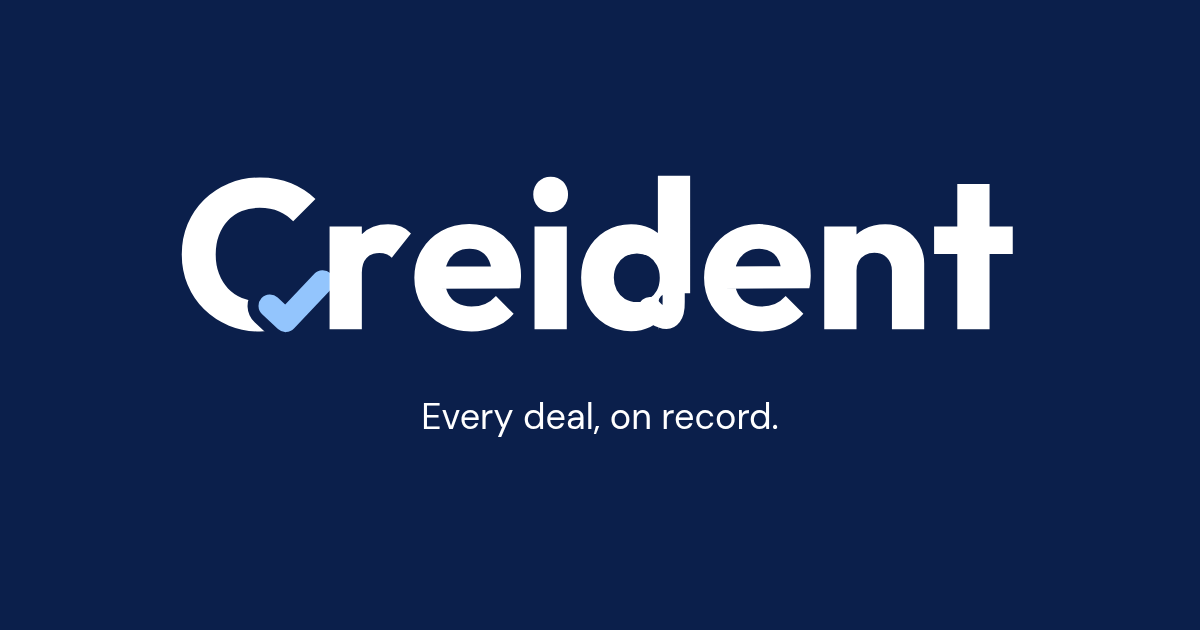
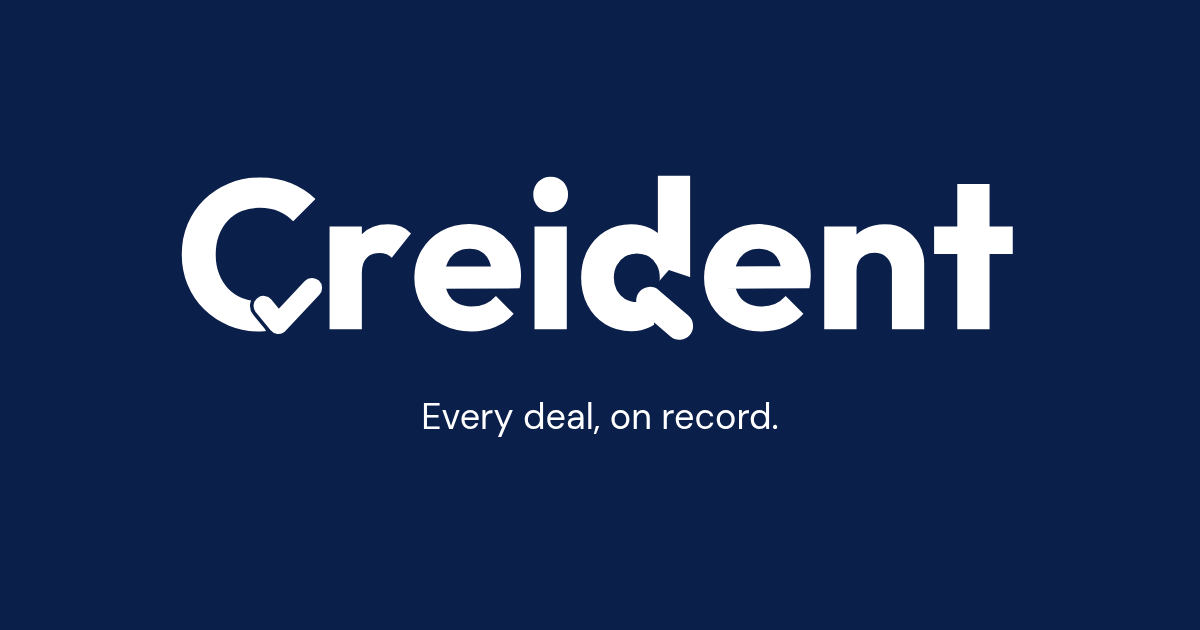
Rebuild compact Check-C and outward d tail from approved direction

Changed region(s): [[0.185, 0.4222, 0.2775, 0.5429], [0.5242, 0.4222, 0.5858, 0.5429]]

diff --git a/docs/brand/index.html b/docs/brand/index.html
@@ -1,1 +1,1 @@
-<!doctype html><html lang="en"><meta charset="utf-8"><meta name="viewport" content="width=device-width,initial-scale=1"><title>Creident · Brand kit v2</title><style>@font-face{font-family:Outfit;src:url('../../src/fonts/outfit-latin-wght-normal.woff2')}@font-face{font-family:Jakarta;src:url('../../src/fonts/plus-jakarta-sans-latin-wght-normal.woff2')}@font-face{font-family:DM;src:url('../../src/fonts/dm-sans-latin-wght-normal.woff2')}*{box-sizing:border-box}body{margin:0;padding:32px;background:#f2f6fc;color:#0B1F4B;font:16px/1.5 DM,Arial,sans-serif}h1,h2,h3{font-family:Jakarta,Arial,sans-serif}h1{font-size:32px}main{display:grid;grid-template-columns:repeat(3,minmax(0,1fr));gap:18px}article,section{background:white;border-radius:24px;padding:20px;overflow:hidden}h3{font-size:14px;margin:0 0 12px}.sample{height:120px;display:flex;align-items:center;justify-content:center;padding:20px}.sample img{max-width:100%;max-height:80px;object-fit:contain}.light{background:white}.dark{background:#0B1F4B}section{margin:22px 0}.swatches{display:flex;gap:18px}.swatches>div{flex:1}.swatches i{display:block;height:70px;border-radius:14px;border:1px solid #DBEAFE}.fonts{display:flex;gap:70px;font-size:28px}.clear{display:inline-block;padding:34px;border:1px dashed #3B82F6}.clear img{width:330px}footer{margin-top:24px}small{font-size:13px}</style><h1>Creident · Brand kit v2</h1><p>Every deal, on record. · Outfit 700 · Custom Check-C and curled d · Not yet wired into the app</p><section><h2>Palette</h2><div class="swatches"><div><i style="background:#0B1F4B"></i>Navy #0B1F4B</div><div><i style="background:#3B82F6"></i>Sapphire #3B82F6</div><div><i style="background:#93C5FD"></i>Sky #93C5FD</div><div><i style="background:#DBEAFE"></i>Ice #DBEAFE</div><div><i style="background:#FFFFFF"></i>White #FFFFFF</div></div></section><section><h2>Typography</h2><div class="fonts"><span style="font-family:Outfit;font-weight:700">Aa · Outfit</span><span style="font-family:Jakarta">Aa · Plus Jakarta Sans</span><span style="font-family:DM">Aa · DM Sans</span></div><p>Every deal, on record.</p></section><section><h2>Clear space and minimum sizes</h2><div class="clear"><img src="../../public/brand/v2/wordmark-light.svg" alt="Creident clear space"></div><p>Dashed area illustrates one check height of clear space (about 20 units per 48-unit wordmark canvas).</p><img height="18" src="../../public/brand/v2/wordmark-light.svg" alt="Minimum wordmark 18px"><p>Wordmark: 18px canvas height minimum</p><img width="16" height="16" src="../../public/brand/v2/mark.svg" alt="Minimum mark 16px"><p>Mark: 16px minimum</p></section><main><article><h3>wordmark-light.svg</h3><div class="sample light"><img src="../../public/brand/v2/wordmark-light.svg" alt="wordmark-light.svg" loading="eager"></div><div class="sample dark"><img src="../../public/brand/v2/wordmark-light.svg" alt="wordmark-light.svg" loading="eager"></div></article><article><h3>wordmark-dark.svg</h3><div class="sample light"><img src="../../public/brand/v2/wordmark-dark.svg" alt="wordmark-dark.svg" loading="eager"></div><div class="sample dark"><img src="../../public/brand/v2/wordmark-dark.svg" alt="wordmark-dark.svg" loading="eager"></div></article><article><h3>wordmark-mono-navy.svg</h3><div class="sample light"><img src="../../public/brand/v2/wordmark-mono-navy.svg" alt="wordmark-mono-navy.svg" loading="eager"></div><div class="sample dark"><img src="../../public/brand/v2/wordmark-mono-navy.svg" alt="wordmark-mono-navy.svg" loading="eager"></div></article><article><h3>wordmark-mono-white.svg</h3><div class="sample light"><img src="../../public/brand/v2/wordmark-mono-white.svg" alt="wordmark-mono-white.svg" loading="eager"></div><div class="sample dark"><img src="../../public/brand/v2/wordmark-mono-white.svg" alt="wordmark-mono-white.svg" loading="eager"></div></article><article><h3>mark.svg</h3><div class="sample light"><img src="../../public/brand/v2/mark.svg" alt="mark.svg" loading="eager"></div><div class="sample dark"><img src="../../public/brand/v2/mark.svg" alt="mark.svg" loading="eager"></div></article><article><h3>mark-dark.svg</h3><div class="sample light"><img src="../../public/brand/v2/mark-dark.svg" alt="mark-dark.svg" loading="eager"></div><div class="sample dark"><img src="../../public/brand/v2/mark-dark.svg" alt="mark-dark.svg" loading="eager"></div></article><article><h3>app-icon-navy.svg</h3><div class="sample light"><img src="../../public/brand/v2/app-icon-navy.svg" alt="app-icon-navy.svg" loading="eager"></div><div class="sample dark"><img src="../../public/brand/v2/app-icon-navy.svg" alt="app-icon-navy.svg" loading="eager"></div></article><article><h3>app-icon-white.svg</h3><div class="sample light"><img src="../../public/brand/v2/app-icon-white.svg" alt="app-icon-white.svg" loading="eager"></div><div class="sample dark"><img src="../../public/brand/v2/app-icon-white.svg" alt="app-icon-white.svg" loading="eager"></div></article><article><h3>app-icon-sapphire.svg</h3><div class="sample light"><img src="../../public/brand/v2/app-icon-sapphire.svg" alt="app-icon-sapphire.svg" loading="eager"></div><div class="sample dark"><img src="../../public/brand/v2/app-icon-sapphire.svg" alt="app-icon-sapphire.svg" loading="eager"></div></article><article><h3>favicon.svg</h3><div class="sample light"><img src="../../public/brand/v2/favicon.svg" alt="favicon.svg" loading="eager"></div><div class="sample dark"><img src="../../public/brand/v2/favicon.svg" alt="favicon.svg" loading="eager"></div></article><article><h3>favicon-32.png</h3><div class="sample light"><img src="../../public/brand/v2/favicon-32.png" alt="favicon-32.png" loading="eager"></div><div class="sample dark"><img src="../../public/brand/v2/favicon-32.png" alt="favicon-32.png" loading="eager"></div></article><article><h3>favicon-16.png</h3><div class="sample light"><img src="../../public/brand/v2/favicon-16.png" alt="favicon-16.png" loading="eager"></div><div class="sample dark"><img src="../../public/brand/v2/favicon-16.png" alt="favicon-16.png" loading="eager"></div></article><article><h3>apple-touch-icon-180.png</h3><div class="sample light"><img src="../../public/brand/v2/apple-touch-icon-180.png" alt="apple-touch-icon-180.png" loading="eager"></div><div class="sample dark"><img src="../../public/brand/v2/apple-touch-icon-180.png" alt="apple-touch-icon-180.png" loading="eager"></div></article><article><h3>icon-192.png</h3><div class="sample light"><img src="../../public/brand/v2/icon-192.png" alt="icon-192.png" loading="eager"></div><div class="sample dark"><img src="../../public/brand/v2/icon-192.png" alt="icon-192.png" loading="eager"></div></article><article><h3>icon-512.png</h3><div class="sample light"><img src="../../public/brand/v2/icon-512.png" alt="icon-512.png" loading="eager"></div><div class="sample dark"><img src="../../public/brand/v2/icon-512.png" alt="icon-512.png" loading="eager"></div></article><article><h3>maskable-512.png</h3><div class="sample light"><img src="../../public/brand/v2/maskable-512.png" alt="maskable-512.png" loading="eager"></div><div class="sample dark"><img src="../../public/brand/v2/maskable-512.png" alt="maskable-512.png" loading="eager"></div></article><article><h3>og-image-1200x630.png</h3><div class="sample light"><img src="../../public/brand/v2/og-image-1200x630.png" alt="og-image-1200x630.png" loading="eager"></div><div class="sample dark"><img src="../../public/brand/v2/og-image-1200x630.png" alt="og-image-1200x630.png" loading="eager"></div></article></main><footer>Opposite-background samples deliberately expose unsuitable combinations. Use the matching light/dark asset; see BRAND.md.</footer></html>
+<!doctype html><html lang="en"><meta charset="utf-8"><title>Creident brand board</title><style>@font-face{font-family:Outfit;src:url('../../src/fonts/outfit-latin-wght-normal.woff2')}@font-face{font-family:Jakarta;src:url('../../src/fonts/plus-jakarta-sans-latin-wght-normal.woff2')}@font-face{font-family:DM;src:url('../../src/fonts/dm-sans-latin-wght-normal.woff2')}*{box-sizing:border-box}body{margin:0;width:1280px;height:720px;background:#eef6ff;color:#0B1F4B;font-family:DM,Arial,sans-serif}.card{position:absolute;background:white;border-radius:24px;display:flex;align-items:center;justify-content:center}.wl{left:26px;top:24px;width:604px;height:282px}.wd{left:648px;top:24px;width:606px;height:282px;background:#0B1F4B}.word{width:500px}.icons{left:26px;top:322px;width:604px;height:162px;gap:38px}.icons img{width:119px;height:119px}.icons img:last-child{width:55px;height:55px}.palette{left:26px;top:500px;width:604px;height:196px;gap:34px}.color{text-align:center;font-size:18px}.swatch{width:99px;height:83px;border-radius:12px;margin-bottom:12px}.type{left:648px;top:322px;width:606px;height:374px;display:block;padding:160px 54px 24px}.samples{display:flex;justify-content:space-between;align-items:center;text-align:center}.samples strong{font-size:60px;font-weight:400;line-height:1}.samples span{display:block;font-size:19px;margin-top:6px}.tag{font-size:26px;margin-top:30px}.outfit{font-family:Outfit}.jakarta{font-family:Jakarta}.dm{font-family:DM}</style><div class="card wl"><img class="word" src="../../public/brand/v2/wordmark-light.svg" alt="Creident"></div><div class="card wd"><img class="word" src="../../public/brand/v2/wordmark-dark.svg" alt="Creident"></div><div class="card icons"><img src="../../public/brand/v2/app-icon-navy.svg" alt="app-icon-navy"><img src="../../public/brand/v2/app-icon-white.svg" alt="app-icon-white"><img src="../../public/brand/v2/app-icon-sapphire.svg" alt="app-icon-sapphire"><img src="../../public/brand/v2/mark.svg" alt="mark"></div><div class="card palette"><div class="color"><div class="swatch" style="background:#0B1F4B"></div>Navy<br>#0B1F4B</div><div class="color"><div class="swatch" style="background:#3B82F6"></div>Sapphire<br>#3B82F6</div><div class="color"><div class="swatch" style="background:#93C5FD"></div>Sky<br>#93C5FD</div><div class="color"><div class="swatch" style="background:#DBEAFE"></div>Ice<br>#DBEAFE</div></div><div class="card type"><div class="samples"><div class="outfit"><strong>Aa</strong><span>Outfit</span></div><div class="jakarta"><strong style="font-size:40px">Plus</strong><span>Jakarta Sans</span></div><div class="dm"><strong>Aa</strong><span>DM Sans</span></div></div><div class="tag">Every deal, on record.</div></div></html>

diff --git a/docs/brand/build-v2.py b/docs/brand/build-v2.py
@@ -10,24 +10,23 @@ f=instantiateVariableFont(TTFont('src/fonts/outfit-latin-wght-normal.woff2'),{'w
 g=f.getGlyphSet();c=f.getBestCmap()
 def glyph(ch):
  p=SVGPathPen(g);g[c[ord(ch)]].draw(p);return p.getCommands()
-def word(color,check,mark=False,gap=52):
+def word(color,check,mark=False,gap=17):
  # Small marks keep a raster-safe optical gap floor.
- if mark: gap=max(gap,85)
- # Reference letter stroke ~130 font units; check 108 (83%), gap B=52 (40%).
- check_path='M450 110 525 40 700 225'
- defs=f'<defs><mask id="ct"><rect x="-100" y="-100" width="1100" height="1100" fill="white"/><rect x="430" y="-60" width="400" height="230" fill="black"/><path d="{check_path}" fill="none" stroke="black" stroke-width="{108+2*gap}" stroke-linecap="round" stroke-linejoin="round"/></mask><mask id="dt"><rect x="-100" y="-100" width="1000" height="1000" fill="white"/><rect x="390" y="-50" width="240" height="220" rx="45" fill="black"/></mask></defs>'
- art=f'<path d="{glyph("C")}" fill="{color}" mask="url(#ct)"/><path d="{check_path}" fill="none" stroke="{check}" stroke-width="108" stroke-linecap="round" stroke-linejoin="round"/>'
+ if mark: gap=max(gap,24)
+ # BK1c: compact inner check, thin 17-unit separation; custom outward d tail.
+ check_path='M420 110 490 25 650 195'
+ defs=f'<defs><mask id="ct"><rect x="-100" y="-100" width="1100" height="1100" fill="white"/><rect x="430" y="-60" width="400" height="310" fill="black"/><path d="{check_path}" fill="none" stroke="black" stroke-width="{95+2*gap}" stroke-linecap="round" stroke-linejoin="round"/></mask><mask id="dt"><rect x="-100" y="-100" width="1000" height="1000" fill="white"/><path d="M370 -80H650V210L440 280 370 200Z" fill="black"/></mask></defs>'
+ art=f'<path d="{glyph("C")}" fill="{color}" mask="url(#ct)"/><path d="{check_path}" fill="none" stroke="{check}" stroke-width="95" stroke-linecap="round" stroke-linejoin="round"/>'
  x=f['hmtx'][c[67]][0]-10
  if not mark:
   for ch in 'reident':
    shape=f'<path d="{glyph(ch)}" fill="{color}"'+(' mask="url(#dt)"' if ch=='d' else '')+'/>'
-   if ch=='d':shape+=f'<path d="M463 220V130Q465 38 408 58Q380 65 350 100" fill="none" stroke="{color}" stroke-width="105" stroke-linecap="round" stroke-linejoin="round"/>'
-   if ch=='d': shape+=f'<circle cx="450" cy="100" r="26" fill="{color}"/>'
+   if ch=='d':shape+=f'<path d="M350 135 490 15" fill="none" stroke="{color}" stroke-width="130" stroke-linecap="round" stroke-linejoin="round"/>'
    art+=f'<g transform="translate({x} 0)">{shape}</g>';x+=f['hmtx'][c[ord(ch)]][0]-10
  w=48 if mark else (x+55)*.05
  transform='translate(3 41) scale(.055 -.055)' if mark else 'translate(0 40) scale(.05 -.05)'
  return f'<svg xmlns="http://www.w3.org/2000/svg" viewBox="0 0 {w:.2f} 48" role="img" aria-label="Creident"><title>Creident</title>{defs}<g transform="{transform}">{art}</g></svg>'
-for name,color,check,mark in [('wordmark-light','#0B1F4B','#3B82F6',False),('wordmark-dark','#FFFFFF','#93C5FD',False),('wordmark-mono-navy','#0B1F4B','#0B1F4B',False),('wordmark-mono-white','#FFFFFF','#FFFFFF',False),('mark','#0B1F4B','#3B82F6',True),('mark-dark','#FFFFFF','#93C5FD',True)]: (out/f'{name}.svg').write_text(word(color,check,mark))
+for name,color,check,mark in [('wordmark-light','#0B1F4B','#3B82F6',False),('wordmark-dark','#FFFFFF','#FFFFFF',False),('wordmark-mono-navy','#0B1F4B','#0B1F4B',False),('wordmark-mono-white','#FFFFFF','#FFFFFF',False),('mark','#0B1F4B','#3B82F6',True),('mark-dark','#FFFFFF','#93C5FD',True)]: (out/f'{name}.svg').write_text(word(color,check,mark))
 def icon(bg,light=False,sapphire=False,maskable=False):
  mark=word('#FFFFFF' if light else '#0B1F4B','#FFFFFF' if sapphire else '#93C5FD' if light else '#3B82F6',True)
  inner=mark[mark.index('<defs>'):mark.rfind('</svg>')]
@@ -35,9 +34,3 @@ def icon(bg,light=False,sapphire=False,maskable=False):
 for n,b,l,s in [('navy','#0B1F4B',True,False),('white','#FFFFFF',False,False),('sapphire','#3B82F6',True,True)]: (out/f'app-icon-{n}.svg').write_text(icon(b,l,s))
 (out/'favicon.svg').write_text(word('#0B1F4B','#3B82F6',True))
 (out/'maskable-source.svg').write_text(icon('#0B1F4B',True,False,True))
-
-# Diagnostic options use identical artwork, varying only the exclusion gap.
-fix=Path('docs/brand/fix');fix.mkdir(parents=True,exist_ok=True)
-for letter,gap in [('a',39),('b',52),('c',65)]:
- (fix/f'spacing-{letter}.svg').write_text(word('#0B1F4B','#3B82F6',gap=gap))
- (fix/f'spacing-{letter}-dark.svg').write_text(word('#FFFFFF','#93C5FD',gap=gap))

diff --git a/docs/brand/BRAND.md b/docs/brand/BRAND.md
@@ -1,115 +1,141 @@
-# Creident — Check-C brand kit v2
+# Creident — Brand Guidelines
 
-Status: owner-selected direction rebuilt as vector artwork; not yet wired into the
-application. Existing brand files remain unchanged. This guide governs the new
-`public/brand/v2/` kit; the older PDF documents the previous identity.
+**Tagline:** *Every deal, on record.*
 
-## Meaning and construction
+## 1. Meaning
+The mark is a **C** for Creident with a **checkmark** in its opening. Together they stand for an agreed deal, on record: two parties settle terms, and Creident keeps a clear record of what was agreed. The check sits *inside* the C but never touches it, because the record is separate from the parties. Describe the brand only as a way to agree on and record deals. Do not describe it as trustless, tamper-proof, secure escrow, guaranteed, or production-ready.
 
-Creident records the terms, steps and decisions of a buyer–seller deal. The C's
-lower terminal becomes an separated check: agreement goes on record. A soft inward
-hook at the bottom of the d stem meets its bowl, leaving a small rounded notch at
-the lower right. Other letters are standard Outfit. Spelling: **Creident**.
+## 2. Logo versions (`public/brand/v2/`)
+All files are pure vector paths (no live text or embedded images) with tight viewBoxes.
 
-Outfit **700** best matches the attached bold geometric reference. Glyphs are
-outlined from the repository's existing variable WOFF2 using preinstalled system
-Python FontTools/Brotli. Custom C and d details are clean vector geometry, not
-pixel tracing. Rebuild SVGs from repository root:
+| File | Use |
+|---|---|
+| `wordmark-light.svg` | **Primary.** Navy letters with a Sapphire check, for white or Ice backgrounds. |
+| `wordmark-dark.svg` | White letters with a **white** check, for Navy or other dark backgrounds. |
+| `wordmark-mono-navy.svg` | Single colour (Navy), for one-colour print, stamps, embossing and fax/PDF. |
+| `wordmark-mono-white.svg` | Single colour (White), for photos, Sapphire, or any colour where the check colour would clash. |
+| `mark.svg` | Standalone C + check (48×48), for light backgrounds, avatars and in-app small branding. |
+| `mark-dark.svg` | Standalone mark with a white C and Sky check, for dark backgrounds. |
+| `app-icon-navy.svg` | **Default app icon.** Navy tile, white C, Sky check, corner radius 22%. |
+| `app-icon-white.svg` | White tile, Navy C, Sapphire check. Use it on dark home screens or marketing next to the Navy icon. |
+| `app-icon-sapphire.svg` | Sapphire tile with an all-white mark, for promotional and seasonal use. |
+| `favicon.svg` | Transparent Navy C with Sapphire check, tuned for 16–32px. |
 
-```sh
-/usr/bin/python3 docs/brand/build-v2.py
+**Dark wordmark:** white letters and white check, matching the approved board.
+The Navy app tile retains a Sky check as requested; the Sapphire tile uses white.
+
+**Optical tuning:** the wordmark uses a thin 17-unit exclusion gap against an
+approximately 130-unit reference stroke (13%). Mark gap is 24 units to retain
+separation at small sizes. The check is compact and inside the lower-right opening.
+
+### Raster exports (`public/brand/v2/`)
+| File | Notes |
+|---|---|
+| `favicon-16.png`, `favicon-32.png` | Exported from `favicon.svg`. |
+| `apple-touch-icon-180.png` | Navy rounded tile, matching the requested exported app-icon style. |
+| `icon-192.png`, `icon-512.png` | Navy app icon with rounded corners, for the web app manifest (`"purpose": "any"`). |
+| `maskable-512.png` | Full-bleed Navy. The mark sits inside the central 80% safe circle (`"purpose": "maskable"`). |
+| `og-image-1200x630.png` | Navy background, white wordmark, and the tagline in DM Sans. |
+| `wordmark-light@2x.png`, `wordmark-dark@2x.png` | Transparent PNGs, 1562px wide. |
+
+Suggested HTML:
+```html
+<link rel="icon" href="/favicon.svg" type="image/svg+xml">
+<link rel="icon" href="/favicon-32.png" sizes="32x32">
+<link rel="apple-touch-icon" href="/apple-touch-icon-180.png">
+<meta property="og:image" content="/og-image-1200x630.png">
 ```
 
-No package.json change, installation or remote font request. Font license:
-`src/fonts/Outfit-OFL.txt`. PNGs were rasterized from these SVGs using Chromium
-canvas at their named sizes; the OG image uses `docs/brand/og-v2.html`, local DM
-Sans and the outlined dark wordmark. No attached reference image is committed.
+## 3. Clear space
+The minimum clear space on every side is **x = the height of the checkmark**. That is about 0.38× the wordmark height, or about 0.34× the 48-unit mark box. No text, edges or other graphics may enter this zone.
 
-## Versions
+## 4. Minimum sizes
+- **Wordmark:** at least **18px tall** on screen, or 6mm in print. Below that, use the mark.
+- **Mark:** at least **16px**. At 16–32px, use `favicon.svg` or the PNG favicons, which have the widened gap.
 
-| Asset | Use |
-|---|---|
-| wordmark-light.svg | Navy letters, Sapphire check on white/light backgrounds |
-| wordmark-dark.svg | White letters, Sky check on Navy |
-| wordmark-mono-navy.svg | Single Navy ink on light backgrounds |
-| wordmark-mono-white.svg | Single white ink on dark backgrounds |
-| mark.svg / mark-dark.svg | C-check alone, optically positioned in a 48×48 canvas |
-| app-icon-navy/white/sapphire.svg | Centered mark on rounded square, radius 22% |
-| favicon.svg / favicon-16.png / favicon-32.png | Light-background favicon exports, not wired yet |
-| apple-touch-icon-180.png | Apple-touch export |
-| icon-192.png / icon-512.png | Standard application icons |
-| maskable-512.png | Full-bleed Navy square, no transparent corners |
-| og-image-1200x630.png | Navy social card, white wordmark and exact tagline |
+## 5. Colour
+| Name | HEX | RGB | Role |
+|---|---|---|---|
+| Navy | `#0B1F4B` | 11, 31, 75 | Primary: wordmark, text, dark surfaces |
+| Sapphire | `#3B82F6` | 59, 130, 246 | Accent: check on light backgrounds, primary buttons, links |
+| Sky | `#93C5FD` | 147, 197, 253 | Check on dark backgrounds, highlights on Navy |
+| Ice | `#DBEAFE` | 219, 234, 254 | Tinted surfaces, borders, chips |
+| White | `#FFFFFF` | 255, 255, 255 | Backgrounds, reversed logo |
 
-Dark check uses Sky for stronger contrast against Navy (8.88:1 vs Sapphire 4.35:1).
-The Sapphire app icon uses a white monochrome mark to avoid blue-on-blue contrast.
-Maskable artwork stays inside the central 70% square: its farthest mark points fit
-inside the standard center circle of radius 40%, protecting it under common masks.
-`maskable-source.svg` is the reproducible full-bleed source.
+### WCAG 2.x contrast ratios (computed)
+| Pair | Ratio | Text AA (4.5) | Large text / UI (3.0) |
+|---|---|---|---|
+| Navy / White | **16.01:1** | ✅ | ✅ |
+| Navy / Ice | **13.12:1** | ✅ | ✅ |
+| Navy / Sky | **8.88:1** | ✅ | ✅ |
+| Navy / Sapphire | **4.35:1** | ❌ (just under) | ✅ |
+| Sapphire / White | **3.68:1** | ❌ | ✅ |
+| Sapphire / Ice | **3.01:1** | ❌ | ✅ (borderline) |
+| Sapphire / Sky | 2.04:1 | ❌ | ❌ |
+| Sky / White | 1.80:1 | ❌ | ❌ |
+| Sky / Ice | 1.48:1 | ❌ | ❌ |
+| Ice / White | 1.22:1 | ❌ | ❌ (decorative only) |
 
-## Spacing and size
+What this means in practice:
+- Body text should be Navy on White or Ice.
+- Sapphire on White is fine for large text (24px and up, or 18.66px bold), icons, and the check. For small link text, use Navy or a darker blue.
+- White text on a Sapphire button passes AA only for large or bold text. Make button labels at least 18.66px bold, or use a Navy button.
+- Never put Sky text on White or Ice.
 
-Clear space on every side equals **one check height** (approximately 20 units in
-the 48-unit wordmark canvas). Scale that allowance with the artwork. Never place
-another icon, text or boundary inside it. The board's dashed box illustrates this.
-Minimum wordmark canvas height: **18px**. Minimum mark canvas: **16px**. At 16px,
-the check is a compact shape, not fine detail; prefer the 32px export when possible.
-Do not crop away the optical padding or the attached check.
+## 6. Typography
+| Role | Typeface | Weights |
+|---|---|---|
+| Brand / logo | **Outfit** | The logo is outlined Outfit **700** with custom C, check and d glyphs. Never retype the logo; always use the SVG files. |
+| Headings | **Plus Jakarta Sans** | 600–800 |
+| Body / UI | **DM Sans** | 400 for body, 500–600 for UI labels |
 
-## Color and accessibility
+**Tagline:** set *Every deal, on record.* in DM Sans 400, in sentence case and ending with a full stop. Use Ice or White on Navy, or Navy on light backgrounds.
 
-Ratios below are sRGB WCAG contrast calculations, rounded to two decimals.
-Normal text needs 4.5:1 for AA; large text needs 3:1. Logo artwork itself is exempt
-from the text contrast requirement; this does not exempt surrounding UI labels.
+## 7. Do / Don't
+**Do**
+- Use the supplied SVGs at their original proportions.
+- Use `wordmark-light` on light backgrounds and `wordmark-dark` on Navy.
+- Respect the clear space and the minimum sizes.
+- Use the mono versions when only one colour is available.
 
-| Color | Hex | On White | On Navy | Text guidance |
-|---|---|---:|---:|---|
-| Navy | #0B1F4B | 16.01 | 1.00 | Primary text on light surfaces |
-| Sapphire | #3B82F6 | 3.68 | 4.35 | Large text/accent; not normal AA text on white or Navy |
-| Sky | #93C5FD | 1.80 | 8.88 | Text/accent on Navy; not text on white |
-| Ice | #DBEAFE | 1.22 | 13.12 | Light surface; text on Navy |
-| White | #FFFFFF | 1.00 | 16.01 | Text on Navy; white on Sapphire is 3.68, large text only |
+**Don't**
+- Retype "Creident" in Outfit or any other font.
+- Stretch, skew, rotate, outline or add shadows or gradients to the logo.
+- Recolour the check outside the palette, or let it touch the C.
+- Move, resize or swap the check, or substitute a colored check for the white dark wordmark.
+- Place the logo on busy photos without a solid panel.
+- Pair the brand with claims such as "trustless", "tamper-proof", "secure escrow" or "production-ready".
 
-## Typography and tagline
+## 8. Construction notes (BK1c)
 
-- Brand: Outfit 700, outlined custom wordmark; do not retype the custom C or d.
-- Headings: Plus Jakarta Sans.
-- Body and tagline: DM Sans.
-- Exact tagline: **Every deal, on record.** Include the comma and full stop.
-- Fonts are already self-hosted in src/fonts; the board loads only those files.
+- Outfit 700, outlined from the existing WOFF2 with preinstalled system FontTools
+  and Brotli. No dependencies, package changes, font requests or kit glyph reuse.
+- All letters except C and d keep the original Outfit outlines, with tight -0.01em
+  inter-letter adjustment. C terminal trimmed, rounded 95-unit compact check and
+  17-unit thin separation. The check vertex is close to the baseline.
+- Custom d: lower stem cut back, rounded tail extends diagonally down-right across
+  the bowl's lower-right edge, leaving a visible notch above the tail.
+- Rebuild vectors: `/usr/bin/python3 docs/brand/build-v2.py`. Existing source font
+  license remains in src/fonts/Outfit-OFL.txt. SVGs have outlined paths, no live text
+  or embedded raster images. PNGs are rasterized from these new vectors.
+- Five-card board: docs/brand/index.html; OG source: docs/brand/og-v2.html.
+  Maskable source keeps the mark inside the central safe circle. No app wiring.
 
-## Do / don't
+## 9. Match review and limits
 
-Do use the background-appropriate version, preserve proportions and clear space,
-and use monochrome exports when one ink is required. Use supplied favicon/icon
-exports instead of shrinking the entire wordmark into an app tile.
+The inline approved board guided the layout and shapes. Its original JPG was not
+available as a local attachment. The supplied ZIP contains preview-vs-reference.png,
+whose upper panel is the approved reference wordmark; that panel is used in
+match-check.png, along with the rebuilt board and enlarged details. The rejected
+kit's lower-panel glyphs were not reused. Attached JPG/ZIP files are not committed.
 
-Do not stretch, rotate, recolor the check outside the supplied variants, add shadows
-or gradients, place on busy photographs, change the specified C/check spacing, edit the d
-hook, change spelling, or imply guaranteed outcomes. Do not replace app wiring in
-this asset-preparation step.
+The result is not claimed pixel-identical: the original reference's r shoulder and
+t foot differ from plain Outfit, while this request requires other letters to remain
+plain Outfit. Exact raster softness, apparent blue hues and font-sample artwork also
+differ; specified hex values and local fonts take precedence. C/check is rounder
+than the reference's compact angled ends. d tail is now visible but its join still
+needs owner visual approval. These differences are shown openly in match-check.png.
 
-## Review and verification
-
-[Brand board](index.html) displays every requested asset on white and Navy, including
-opposite-background samples to make incorrect usage obvious. [Screenshot](brand-board.png)
-is 1440px wide. Managed Chromium blocks file:// navigation; a temporary local static
-server was used for preview/export. The board has only relative local references,
-no scripts or CDN; direct-file behavior cannot be verified in this managed browser.
-All 37 images load without overflow. Sanity gate results are recorded in HANDOFF.md.
-
-
-## BK1b spacing refinement
-
-Option B uses a 52-unit separation (40% of the 130-unit reference letter stroke).
-Check stroke is 108 units (83%), round caps/joins. A geometric exclusion mask
-keeps letter and check separate even in monochrome exports. C lower terminal is
-trimmed around five o'clock; the check is repositioned inside the opening.
-The d stem bends inward to meet its bowl; the lower-right contour is hooked.
-Other glyph outlines are unchanged.
-
-At 16px, the mathematical 40% gap could close visually through antialiasing.
-Standalone marks therefore use an 85-unit optical exclusion floor, propagated to
-app icons/favicons. This is a small-size exception, not a different wordmark option.
-See fix/compare.html (A 30%, B 40%, C 50%) and fix/before-after.png. The check stays
-part of the fixed composition, but must never touch the C. Use the supplied exports.
+Managed Chromium blocks file://; screenshots use a temporary localhost static
+server. HTML uses local relative files with no CDN/build. Test/typecheck/build
+results and publication status are in docs/HANDOFF.md.

diff --git a/docs/HANDOFF.md b/docs/HANDOFF.md
@@ -173,6 +173,27 @@ Still open:
 
 ## Log
 
+### 2026-10-30 — BK1c board-match rebuild
+
+- Continued ui/creident-mockup from clean fe95649. Read attached BRAND.md and ZIP
+  as reference data only. Reused file list/guide structure, not rejected glyphs.
+  Original full-board JPG was inline only, not a local file; ZIP's top reference
+  wordmark panel supports side-by-side match-check.png. No JPG/ZIP committed.
+- Outfit 700 re-outlined; compact inner check with thin 17-unit (13%) separation,
+  mark 24-unit optical gap, visible down-right curled d tail/notch. White dark
+  wordmark check; Navy app tile Sky check, Sapphire tile white check.
+- Regenerated vectors/PNGs, added transparent wordmark @2x exports (1562px wide),
+  recreated five-card 1280x720 board and added 3x C/d comparison. No app wiring.
+- Not claimed identical: standard Outfit r/t differ from AI letters; exact image
+  softness/hues differ; C/check caps and d join need owner review. BRAND.md states
+  these limits instead of claiming exact acceptance. Full JPG comparison is limited
+  by missing original board file. All required assets exist and board images load.
+- 522 tests/50 files, typecheck/build/diff check pass on Node 22.23.4. Browser
+  localhost preview only (managed policy blocks file://). Only docs/brand,
+  public/brand/v2 and handoff changed. No dependency, merge or deployment.
+- Push target origin/ui/creident-mockup. Manual compare (no PR claimed):
+  https://github.com/Ilham-Musyafa/Creident/compare/main...ui/creident-mockup
+
 ### 2026-10-30 — BK1b C/check spacing and d refinement
 
 - Continued ui/creident-mockup from aefa16e. Trimmed C lower terminal and used an
